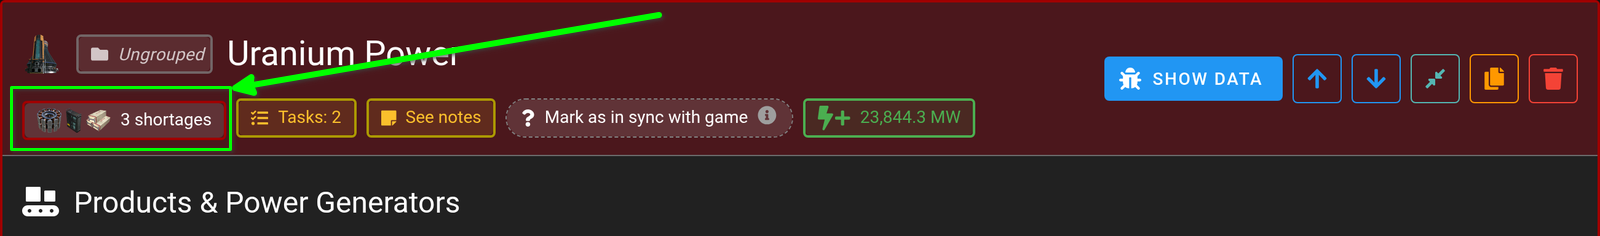
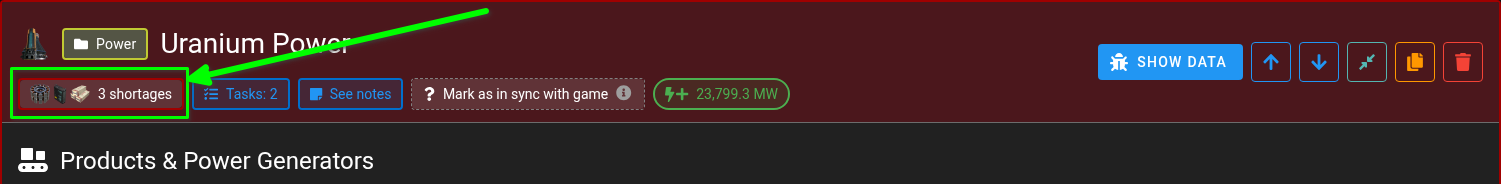
docs(web): rewrite the Beta v0.6 change log
Lead with the raw inputs breaking change, in red, since it is what
changes every existing plan.

Cut the rationale from every entry so each one states the change and
stops. Drop the entries nobody outside the branch ever saw: the health
check, the version gate, the 404 route, the Effective Output rename and
the Somersloop refresh icon.

Split the Factories Summary into its own section, group the status
tiers into a colour-coded list, and add screenshots for the summary,
its filtered view, the End product chip, the export chip jump button
and the active factory bar. Retake status-chips.png for the new chip
colours.

Correct three claims while I am in here: wells cover Crude Oil as well
as Water and Nitrogen, water comes from alternate recipes and
byproducts too, and Nitrogen Gas was always plannable through
conversion.

Changed region(s): [[0.0, 0.0543, 1.0, 0.6793], [0.6742, 0.2174, 1.0, 0.462], [0.0, 0.788, 0.3065, 0.9511]]

diff --git a/web/src/pages/changelog.vue b/web/src/pages/changelog.vue
@@ -23,8 +23,8 @@
           </ul>
         </nav>
         <v-divider />
-        <h1>Beta v0.6 - The "Groundwork" Update <span class="release-date">14/Aug/2026</span></h1>
-        <p>Everything your plan needs now comes from somewhere. Raw resources are no longer an assumption: ore, water, oil and gas are dug up by buildings you place, planned and exported like anything else. The plan they feed got the folders, icons and status chips to keep track of it all.</p>
+        <h1>Beta v0.6 - The "Groundwork" Update <span class="release-date">19/Aug/2026</span></h1>
+        <p>Raw resources are no longer assumed. Ore, water, oil and gas are dug up by buildings you place, and planned and exported like anything else. Factory groups, factory icons and status chips arrive to keep a bigger plan in order.</p>
         <nav v-if="sectionsOf('Beta v0.6').length" class="toc">
           <p class="mb-1"><b>In this update:</b></p>
           <ul class="toc-list">
@@ -34,8 +34,15 @@
           </ul>
         </nav>
 
+        <h2 class="breaking">🆕 <i class="fas fa-exclamation-triangle ml-1" /><span class="ml-2">Raw inputs are no longer assumed</span></h2>
+        <p>The planner used to top up any raw resource you were short of. Every raw resource must now be mined or imported, and an unmet one is a real shortage, with the usual buttons to mine it on the spot or import it.</p>
+        <p><b>Plans built before this will show factories in red.</b> Nothing has been changed or lost. The shortages were always there.</p>
+        <p>There is no setting for it: an optional assumption would mean the same plan meant different things to different people.</p>
+
+        <v-divider class="subsection" />
+
         <h2>🆕 <i class="fas fa-hard-hat ml-1" /><span class="ml-2">Mines</span></h2>
-        <p>Pick a raw resource as a product and the planner offers its extractor as the recipe. Because one ore line routinely mixes a Mk.3 on a pure node with a Mk.2 on a normal one, the <b>miner mark and node purity are set per building group</b>, and both stack with the group's clock exactly as they do in game. Build a dedicated mine and export the ore anywhere in your plan, or mine on site and smelt it in the same factory.</p>
+        <p>Pick a raw resource as a product and the planner offers its extractor as the recipe, along with any alternate recipe that also produces it. Miner mark and node purity are set per building group, and both stack with the group's clock as they do in game. Mine on site like any other product, or build a dedicated mine and export the ore.</p>
         <v-img
           alt="A mine mixing Miner Mk.3s on pure nodes with a Mk.2 on a normal one"
           max-width="1200"
@@ -45,8 +52,8 @@
         <v-divider class="subsection" />
 
         <h2>🆕 <i class="fas fa-water ml-1" /><span class="ml-2">Resource Wells</span></h2>
-        <p>A well is one building group: the pressurizer, and how many satellite extractors stand on impure, normal and pure micro-nodes. The pressurizer's clock scales every satellite at once, so a well of 1 normal and 6 pure satellites reads 780 m³/min at 150 MW, and 1,950 m³/min at 503.7 MW once you shove three power shards in it. The satellites are counted as buildings to place but draw no power, because the pressurizer pays for all of them.</p>
-        <p><b>Nitrogen Gas becomes extractable for the first time</b>, wells being its only source.</p>
+        <p>A well is one building group: the pressurizer, plus its satellite extractors on impure, normal and pure micro-nodes. The pressurizer's clock scales every satellite at once and pays the power for all of them. Wells cover Water, Crude Oil and Nitrogen Gas.</p>
+        <p><b>Raw Nitrogen Gas is in the planner for the first time.</b> It was only ever available through conversion before, which was a long-standing hole.</p>
         <v-img
           alt="A resource well pressurizer with its satellite nodes by purity"
           max-width="1200"
@@ -56,7 +63,7 @@
         <v-divider class="subsection" />
 
         <h2>🆕 <i class="fas fa-tint ml-1" /><span class="ml-2">Water &amp; Oil</span></h2>
-        <p>Water sources have no purity, so the Water Extractor is simply a building that produces a raw resource at a flat 120 m³/min, and overclocks like everything else. Oil Extractors work off node purity in the usual way.</p>
+        <p>Water is now supported however you get it: Water Extractors, resource wells, alternate recipes and byproducts. Oil is supported from both Oil Extractors and resource wells.</p>
         <v-img
           alt="Water Extractors, which have no node purity"
           max-width="1200"
@@ -65,131 +72,163 @@
 
         <v-divider class="subsection" />
 
-        <h2>🆕 <i class="fas fa-exclamation-triangle ml-1" /><span class="ml-2">Raw inputs are no longer assumed</span></h2>
-        <p>Until now the planner quietly topped up any raw resource you were short of, so a plan could never tell you it was missing ore. Every raw resource must now be mined or imported like anything else, and an unmet one is a real shortage, with the usual buttons to mine it on the spot or import it from a factory that does. <b>Plans built before this will show factories in red.</b> Nothing in your plan has been changed or lost; it is only being honest about what was already missing.</p>
-        <p><b>There is no setting for it, and that is deliberate.</b> An optional assumption meant the same plan could mean different things to different people, with nothing on screen to say so. The bug that ended it: a factory mining 100 of the 180 Limestone it needed read as <i>fully satisfied</i>, because the chip that would have mentioned the assumed 80 was suppressed by the one saying "extracted".</p>
-        <p>The one exception is decided by the game rather than by you. Eleven raw resources have no extractor of any kind (Leaves, Wood, Mycelia, the four alien remains, the three power slugs and the FICSMAS Gift), so demanding you mine those would leave every Fabric, Charcoal, Biomass and Protein factory permanently red with nothing the planner could offer. They stay satisfied and wear an amber <b>Manually gathered</b> chip.</p>
-
-        <v-divider class="subsection" />
-
         <h2>🆕 <i class="fas fa-shovel ml-1" /><span class="ml-2">The Raw Resources Wizard</span></h2>
-        <p>It lists every factory short of a raw resource and offers, per row: create a shared mine factory, mine it right there, import it from a factory that already mines it, or leave it alone. It lives in <b>Options</b>, the wrench beside the share button, and isn't only for migrating; run it any time a new factory comes up short.</p>
+        <p>It lists every factory short of a raw resource and offers, per row: build a shared mine, mine it on site, import it from a factory that already mines it, or leave it alone. It lives in <b>Options</b>, the wrench beside the share button. Run it any time a new factory comes up short.</p>
         <v-img
           alt="The Raw Resources Wizard listing factories short of a raw resource"
           max-width="1200"
           src="/assets/changelog/beta6/wizard.png"
         />
         <ul class="ml-6 mt-2">
-          <li><b>One mine per resource for the whole plan</b> where you ask it to build one, sized to everything that asked for it: a plan short of iron in eight places gets one Iron Ore Mine, not eight.</li>
-          <li>New mines are built on <b>Miner Mk.2s at normal purity</b>. Only the building count and the power depend on that guess, never the amount of ore, so adjust each group to the nodes you actually have.</li>
-          <li><b>Water defaults to being extracted on site</b>, since that is how it is nearly always built, and a resource already mined somewhere in your plan defaults to importing from there.</li>
-          <li><b>Resource wells are the one thing it won't build.</b> A well's rate comes from its satellite nodes, so sizing one automatically would multiply the pressurizer instead and land an order of magnitude out while reading as solved. Nitrogen rows offer nothing at all, and say why. Wiring an import from a well you already have is one click in Imports.</li>
-          <li>It shows you every factory it will touch, everything they will produce and every export they gain, and <b>writes nothing until you confirm</b>. There is no undo in the planner, so the whole change is built to one side first: if any part of it can't be applied, nothing is written at all. <b>Download a backup</b> from the confirmation screen for a way back.</li>
-          <li>You choose whether new mines land at the top or the bottom of the plan, and can rename any of them before they are built.</li>
+          <li><b>One mine per resource</b>, sized to everything that asked for it. Eight factories short of iron get one Iron Ore Mine.</li>
+          <li>New mines use <b>Miner Mk.2s at normal purity</b>. That guess only affects the building count and the power, never the ore, so adjust each group to the nodes you have.</li>
+          <li><b>Water defaults to on-site extraction.</b> A resource already mined somewhere in your plan defaults to importing from there.</li>
+          <li><b>Resource wells are not compatible with the wizard</b>, because of the satellites. Rather than make a bad guess it leaves them to you, and says so on any row it cannot help with. Wiring an import from a well you already have is one click in Imports.</li>
+          <li><b>Nothing is written until you confirm.</b> You see every factory, product and export first, and can download a backup from the confirmation screen.</li>
+          <li>You choose whether new mines land at the top or the bottom of the plan, and can rename them before they are built.</li>
         </ul>
 
         <v-divider class="subsection" />
 
         <h2>🆕 <i class="fas fa-folder-tree ml-1" /><span class="ml-2">Factory Groups</span></h2>
-        <p>A plan of thirty factories was a flat list, and the only ways to organise it were the name and the drag order. Factories now belong to a <b>group</b>: a named, coloured folder that collapses like a toggle, reorders, and can be dragged in and out of. Anything in no group falls into <b>Ungrouped</b>, pinned to the top.</p>
+        <p>Factories now belong to a <b>group</b>: a named, coloured folder that can be collapsed, reordered, and have factories dragged between them. Anything ungrouped falls into <b>Ungrouped</b>, pinned to the top.</p>
         <v-img
           alt="Factories organised into coloured groups in the sidebar"
           max-width="1200"
           src="/assets/changelog/beta6/factory-groups.png"
         />
         <ul class="ml-6 mt-2">
-          <li><b>In the sidebar</b>, a group is a header with its colour swatch, an editable name, a factory count, a delete button, and a line showing what the group makes: as many item icons as the sidebar is currently wide enough for, then a <b>+N</b> tile whose tooltip lists the rest. Drag a factory between groups, reorder factories inside one, or drag the groups themselves.</li>
-          <li>The sidebar draws a group as a <b>tree</b>: a line in the group's colour down the edge of the section, with an elbow into each member.</li>
-          <li><b>In the planner</b>, cards sit under a collapsible band per group, Ungrouped first. Bands only appear once there is more than one section, so a plan that has never used groups looks exactly as it did.</li>
-          <li><b>Colour</b> comes from a palette or the picker. Red and amber are deliberately not offered: they are the problem and warning tiers, and a group wearing one would read as a broken factory. A group gives its cards a muted header and a bright left spine, and a status still wins the border, so a factory short of copper stays red while its spine says where it lives.</li>
-          <li><b>Assigning</b> is a drag, or the group chip on the factory's header, which lists the groups and can make a new one on the spot. <b>Multi-group edit</b> does the same to a whole selection, so organising an existing plan doesn't mean opening forty cards in turn.</li>
-          <li><b>Group power</b> (generated, consumed and the balance per group) is off by default and switched on under <b>Options → Sidebar → Factory groups</b>. It comes with a <b>circuit boost</b> chip wherever Alien Power Augmenters are involved: that boost is a share of the whole plan's generation, so without it a group generating 3.3 GW read as 61 GW.</li>
-          <li><b>Deleting a group never deletes a factory</b>: one that still holds factories asks where they should go first.</li>
+          <li><b>In the sidebar</b>, a group header carries its colour, an editable name, a factory count, a delete button, and icons for what the group makes.</li>
+          <li><b>In the planner</b>, cards sit under a collapsible band per group, Ungrouped first.</li>
+          <li><b>Assign</b> by drag, or from the group chip on the factory header, which can make a new group on the spot. <b>Multi-group edit</b> does the same to a whole selection.
+            <v-img
+              alt="Multi-group edit assigning several selected factories to one group"
+              class="mt-2"
+              max-width="1200"
+              src="/assets/changelog/beta6/multi-group-edit.png"
+            />
+          </li>
+          <li><b>Group power</b> (generated, consumed and the balance) is optional, under <b>Options → Sidebar → Factory groups</b>. A <b>circuit boost</b> chip shows where Alien Power Augmenters are involved.</li>
+          <li><b>Deleting a group never deletes a factory.</b> One that still holds factories asks where they should go first.</li>
         </ul>
 
         <v-divider class="subsection" />
 
         <h2>🆕 <i class="fas fa-icons ml-1" /><span class="ml-2">Factory Icons</span></h2>
-        <p>Every factory drew the same generic industry glyph, so a plan of twenty factories showed twenty identical icons and the only thing distinguishing a sidebar row was a truncated name. Factories now carry <b>an icon you choose</b>, and it shows everywhere the factory is referenced: the card header, the sidebar row, the Factories Summary, the graph node, the import rows, and the import/export chips.</p>
+        <p>Factories now carry <b>an icon you choose</b>, shown on the card header, the sidebar row, the Factories Summary, the graph node, the import rows and the import/export chips.</p>
         <v-img
           alt="The factory icon picker"
           max-width="1200"
           src="/assets/changelog/beta6/factory-icons.png"
         />
         <ul class="ml-6 mt-2">
-          <li><b>352 icons to pick from.</b> Real game art for every machine, extractor and generator, every belt, lift, splitter, pipe and pump, all the power infrastructure, the stations and storage, the vehicles, the equipment, and every raw resource, fluid and component the planner knows about, plus emoji: coloured squares, circles, diamonds and triangles, the digits 0–10, and a row of symbols.</li>
-          <li><b>Two ways in:</b> click the icon on the factory itself, or the same icon on its row in the sidebar. Either opens the picker; <i>Use default</i> puts the generic glyph back.</li>
-          <li><b>The picker opens on everything</b>, laid out under category headings so you can scroll it like a sheet rather than hunting through tabs. The category buttons stay on screen, so they double as a map of what is in there.</li>
-          <li><b>Search covers the whole set</b> whichever category is selected, and matches names with their punctuation stripped: the game writes "Mk.5" and nobody types the dot, so "mk5" finds it.</li>
-          <li>A factory stores only an icon ID, so nothing about how it is drawn is baked into your saved plan. Plans saved before this show the default glyph until an icon is picked.</li>
-          <li><b>The Demo plan wears them</b>, with its copper chain folded into a copper-coloured group.</li>
+          <li><b>352 icons</b>, using in-game art for every building, product, vehicle and resource, plus emoji: coloured squares, circles, diamonds, triangles, digits and symbols.</li>
+          <li>Click the icon on the factory header, or on its sidebar row, to change it.</li>
         </ul>
 
         <v-divider class="subsection" />
 
         <h2>🆕 <i class="fas fa-heart-rate ml-1" /><span class="ml-2">Factory status indicators</span></h2>
-        <p>A factory in the sidebar used to tell you exactly one thing: it was red, or it wasn't. Three unrelated failures collapsed into one red blob, and anything short of outright broken had nowhere to appear. Factories now carry a <b>status list</b>: named conditions rendered as chips under the factory name, so a 30-factory plan can be triaged without opening a single card.</p>
+        <p>A factory in the sidebar was either red or it wasn't, and it never said what was wrong. Factories now carry <b>status chips</b> that name the problem, so you can go straight to it.</p>
         <v-img
           alt="A factory carrying status chips under its name"
           max-width="1200"
           src="/assets/changelog/beta6/status-chips.png"
         />
-        <ul class="ml-6 mt-2">
-          <li><b>Three tiers.</b> Red for a problem: the factory can't do what the plan says it does. Amber for a warning: the plan is coherent, but something is probably not what you meant, or your world is behind your plan. The higher of those paints the border, and chips aren't collapsed, so a factory both short of copper <i>and</i> out of sync shows both. The third tier is a note: worth counting, often deliberate, and it leaves the factory green.</li>
-          <li><b>Nine statuses to start with.</b> Red: shortage, unmet export request, building groups that don't add up. Amber: unhandled byproduct, out of sync with the game, redundant import, duplicate import. Note: no demand, potential blockage.</li>
-          <li><b>No demand</b> counts the products nothing asks for: no recipe in the factory needs them and no other factory imports them. A factory built to feed the sink is doing its job, which is why this one never colours the card. The chip appears beside the product, beside the item's surplus in Satisfaction, and as a count on the Factories Summary.</li>
-          <li><b>A byproduct nothing consumes will back up and stop the buildings making it.</b> You can decline to build a product nobody wants; you cannot decline the Heavy Oil Residue or the Plutonium Waste that comes off the line. How loudly the planner says so depends on whether the AWESOME Sink would take it: sinkable byproducts get a <b>Potential blockage</b> note and the factory stays green, since there is a way out you just haven't drawn yet. Fluids and radioactive items get <b>Unhandled byproduct</b>, which is amber and does colour the factory, because the sink takes neither. The product or generator responsible takes an amber background so you can see which row it is, and exporting the byproduct or blending it into a recipe clears either one.</li>
-          <li><b>End products say so, in blue.</b> Items the game itself never consumes are the end of their chain: the AI Expansion Server, the Ballistic Warp Drive, nobelisks, rebar, the Portable Miner. Having no consumer is what those are for, so they read <b>End product</b> rather than "no demand". Nuclear fuel rods and the Alien Power Matrix are correctly left out: nothing crafts with them, but generators burn them.</li>
-          <li><b>The chips say which items</b>: three shortages are three item icons and "3 shortages", not a generic warning glyph. The full list is in the tooltip. Clicking a chip scrolls to the section it points at.</li>
-          <li>The same treatment now applies everywhere factory state was already painted: the sidebar, the card border and header, the section headers, and the Factories Summary, which never painted the amber state at all.</li>
-          <li><b>The Factories Summary counts them</b>, in its header and in its sidebar row: how many factories are short of parts, have building groups that don't add up, are out of sync, and so on. Only the states that apply are shown, and the header keeps them when the summary is collapsed.</li>
-          <li><b>Those counts filter the table.</b> Click one and the summary lists only the factories behind it, ready to jump into; click it again to clear.</li>
-          <li><b>Fixed:</b> a factory whose <i>power generator</i> building groups didn't add up never turned red. The check ran, but the rollup only ever looked at products.</li>
+        <p class="mt-2"><b>The statuses below sit in three tiers.</b> Red is a serious problem. Amber is something to address at some point. Yellow shows on the factory without flagging it. The highest tier present paints the factory, and chips are never collapsed, so a factory short of copper <i>and</i> out of sync shows both.</p>
+        <ul class="status-tiers ml-6">
+          <li class="tier-problem"><b>Marks the factory red</b>
+            <ul>
+              <li><b>Shortage</b>: the factory needs more of a part than it can supply.</li>
+              <li><b>Export request unmet</b>: another factory asks for more than this one supplies.</li>
+              <li><b>Building groups do not add up</b>: the groups on an item do not cover the buildings it needs.</li>
+            </ul>
+          </li>
+          <li class="tier-warning"><b>Marks the factory amber</b>
+            <ul>
+              <li><b>Unhandled byproduct</b>: a fluid or radioactive byproduct nothing consumes and the sink will not take.</li>
+              <li><b>Out of sync</b>: the factory has changed since you marked it built in game.</li>
+              <li><b>Redundant import</b>: the part is already covered here, or by another import row.</li>
+              <li><b>Duplicate import</b>: the same part imported twice from the same factory.</li>
+            </ul>
+          </li>
+          <li class="tier-note"><b>Shows on the factory, but does not flag it</b>
+            <ul>
+              <li><b>No demand</b>: nothing asks for this product.</li>
+              <li><b>Potential blockage</b>: a byproduct nothing consumes, but the sink would take it.</li>
+            </ul>
+          </li>
         </ul>
+        <v-img
+          alt="A product row for a Ballistic Warp Drive, carrying a blue End product chip"
+          class="mt-2"
+          max-width="900"
+          src="/assets/changelog/beta6/end-product-chip.png"
+        />
+        <p class="mt-2"><b>End product</b>, in blue, marks an item the game itself never consumes, so having no demand is what it is for.</p>
+        <ul class="ml-6 mt-2">
+          <li><b>Fixed:</b> a factory whose <i>power generator</i> building groups didn't add up never turned red. The check ran, but the rollup only looked at products.</li>
+        </ul>
+
+        <v-divider class="subsection" />
+
+        <h2>👍 <i class="fas fa-list ml-1" /><span class="ml-2">Factories Summary</span></h2>
+        <p>The summary now aggregates every issue in the plan, in its header and in its sidebar row, so you can see everything wrong at a glance and go from there.</p>
+        <v-img
+          alt="The Factories Summary, with status counts in its header"
+          max-width="1200"
+          src="/assets/changelog/beta6/factories-summary.png"
+        />
+        <p class="mt-2"><b>Click a count to list only the factories behind it</b>, and click it again to clear.</p>
+        <v-img
+          alt="The Factories Summary filtered to the three factories with shortages"
+          max-width="1200"
+          src="/assets/changelog/beta6/factories-summary-filtered.png"
+        />
 
         <v-divider class="subsection" />
 
         <h2>👍 <i class="fas fa-chart-line ml-1" /><span class="ml-2">Statistics enhancements</span></h2>
         <h3>Item Production</h3>
-        <p><b>Product Surplus &amp; Deficit and Produced Items are now one section.</b> They listed the same items twice: one showing the balance, the other the supply. Item Production lists every item, with a search box and filters for surplus, deficit and balanced. The filter counts follow the search, so they say how many match both. The "Show all Products" toggle has gone with the section it controlled.</p>
+        <p><b>Product Surplus &amp; Deficit and Produced Items are now one section.</b> Item Production lists every item, with a search box and filters for surplus, deficit and balanced. The filter counts follow the search. The "Show all Products" toggle has gone with the section it controlled.</p>
         <v-img
           alt="The Item Production table, with each item broken down by factory"
           max-width="1200"
           src="/assets/changelog/beta6/statistics-items.png"
         />
-        <h3 class="mt-4">Where the numbers come from</h3>
-        <p><b>Item Production, Raw Resources and Building Summary are tables</b>, and each says which factories are behind the figure. Item Production lists every factory producing an item with what it makes, in green, alongside any factory short of it, in red. The chips click through to the factory.</p>
+        <h3 class="mt-4">Buildings</h3>
+        <p><b>Building Summary now says which factories hold each building.</b></p>
         <v-img
           alt="The Building Summary table, listing every factory that holds each building"
           max-width="1200"
           src="/assets/changelog/beta6/statistics-buildings.png"
         />
-        <ul class="ml-6 mt-2">
-          <li><b>Raw Resources</b> counts what the plan digs up. It used to read the raw supply the planner assumed on your behalf, so it sat empty once that assumption was removed.</li>
-          <li><b>Power Consumption and Generation</b> gains a By factory breakdown, heaviest net drain first, collapsed by default.</li>
-          <li><b>Building Summary</b> no longer counts a building requirement that has dropped to zero.</li>
-        </ul>
+        <h3 class="mt-4">Power</h3>
+        <p><b>Power Consumption and Generation gains a By factory breakdown</b>, heaviest net drain first, collapsed by default.</p>
+        <v-img
+          alt="Power consumption and generation broken down by factory"
+          max-width="1200"
+          src="/assets/changelog/beta6/statistics-power-by-factory.png"
+        />
 
         <v-divider class="subsection" />
 
         <h2>👍 <i class="fas fa-tasks ml-1" /><span class="ml-2">Tasks</span></h2>
-        <p><b>Tasks drag into any order</b> now, by the grip handle on the left, the same handle the sidebar's factory list uses. A task's position was fixed the moment it was added, so the only way to reprioritise was to delete it and retype it at the bottom. Completed tasks drag too.</p>
+        <p><b>Tasks drag into any order</b>, by the grip handle on the left. Completed tasks drag too. The card has had a tidy-up while it was open.</p>
         <v-img
           alt="The factory tasks card with drag handles and checkboxes"
           max-width="1200"
           src="/assets/changelog/beta6/tasks.png"
         />
-        <p class="mt-2"><b>Done is a checkbox</b> rather than a pair of buttons, and has moved to the left of the task next to the handle. The old control was a blue button that turned grey, which read as an action to take rather than a state to see. Delete stays on the right and is outlined rather than a solid red block, since it was the loudest thing in the card while being the action you least often want.</p>
 
         <v-divider class="subsection" />
 
         <h2>👍 <i class="fas fa-calculator ml-1" /><span class="ml-2">Export Calculator: belts, pipes and Fluid Trucks</span></h2>
         <ul class="ml-6">
-          <li><b>Belts are back</b>, now per destination: how many conveyors of a chosen mark it takes to carry the export, across all six marks (60/120/270/480/780/1,200 per min), with the smallest single belt that can carry it picked by default.</li>
-          <li><b>Belt groups</b> split an export across several runs, each with its own mark. Enter either an items/min amount or a whole number of belts and the other follows, so you can plan by exact throughput or by "I'll just run four belts". Over-provisioning is fine; only undercapacity raises a warning, with an amber nudge when a whole group could be deleted and the rest would still cover it. Groups persist with the plan.</li>
-          <li><b>Pipes</b> do the same for fluids, Mk.1 (300 m³/min) and Mk.2 (600 m³/min), with their own groups saved separately from the belt ones.</li>
-          <li><b>Fluid Trucks</b> (3,200 m³, added in patch 1.2) are supported, so the Truck column calculates fluid exports instead of telling you to package them. Drones and Tractors genuinely can't carry raw fluids, so those columns say so.</li>
-          <li>The tray reads as an actual recessed tray now, grows with its content instead of clipping at a fixed height, and its mixed thick/thin column borders were unified.</li>
+          <li><b>Belts are back</b>, per destination: how many conveyors of a chosen mark carry the export, across all six marks (60/120/270/480/780/1,200 per min), with the smallest belt that fits picked by default.</li>
+          <li><b>Belt groups</b> split an export across several runs, each with its own mark. Enter an items/min amount or a whole number of belts and the other follows. Only undercapacity warns, with an amber nudge when a whole group could go and the rest would still cover it. Groups persist with the plan.</li>
+          <li><b>Pipes</b> do the same for fluids, Mk.1 (300 m³/min) and Mk.2 (600 m³/min), with their own groups.</li>
+          <li><b>Fluid Trucks</b> (3,200 m³, added in patch 1.2) are supported, so the Truck column calculates fluid exports. Drones and Tractors can't carry raw fluids, and say so.</li>
         </ul>
         <v-img
           alt="The export calculator on a fluid export: Fluid Freight Cars and Fluid Trucks, with 600 m³/min split across two Mk.1 pipe groups"
@@ -202,43 +241,51 @@
 
         <h2>👍 <i class="fas fa-compass ml-1" /><span class="ml-2">Navigation improvements</span></h2>
         <ul class="ml-6">
-          <li><b>The sidebar shows which factory you're looking at</b>, with an orange bar on that entry that follows you as you scroll or jump. No more losing your place in a 30-factory plan. The Statistics and Factories Summary links get the same treatment.</li>
-          <li><b>Jump to a requesting factory</b> from any export chip in the satisfaction table, via a small eye button on its edge. Clicking the chip itself still selects that destination in the Export Calculator.</li>
-          <li>An <b>Exported</b> chip now sits beside Product and Imported on any item another factory has asked for, so what leaves a factory reads off the item's own row.</li>
-          <li><b>Every game image has a tooltip.</b> Hovering an item or building icon that wasn't a wiki link told you nothing, so a row of eight icons was eight guesses.</li>
-          <li>Factory names and tasks now show a text caret and underline on hover, because nothing said they were editable: the factory name went as far as showing a pointing hand, the cursor for a button, on a field you type into.</li>
+          <li><b>The sidebar shows which factory you're looking at</b>, with an orange bar that follows you as you scroll or jump. The Statistics and Factories Summary links get the same treatment.
+            <v-img
+              alt="The sidebar factory list, with an orange bar marking the factory in view"
+              class="mt-2"
+              max-width="420"
+              src="/assets/changelog/beta6/sidebar-active-factory.png"
+            />
+          </li>
+          <li><b>Jump to a requesting factory</b> from any export chip in the satisfaction table, via the small eye button on its edge. Clicking the chip itself still selects that destination in the Export Calculator.
+            <v-img
+              alt="An export chip with the eye button that jumps to the requesting factory"
+              class="mt-2"
+              max-width="420"
+              src="/assets/changelog/beta6/export-chip-jump.png"
+            />
+          </li>
+          <li>An <b>Exported</b> chip sits beside Product and Imported on any item another factory has asked for.</li>
+          <li><b>Every game image has a tooltip.</b></li>
         </ul>
 
         <v-divider class="subsection" />
 
-        <h2>🔧 <i class="fas fa-ghost ml-1" /><span class="ml-2">Ghost exports, and plans that repair themselves</span></h2>
-        <p>A factory could sit there claiming to export a part to another factory that had no matching import, or worse, quietly export the wrong amount. There wasn't one cause, there were five, and each of them is fixed.</p>
+        <h2>🔧 <i class="fas fa-bullseye ml-1" /><span class="ml-2">Plan accuracy fixes</span></h2>
+        <p>A factory could claim to export a part to a factory with no matching import, or quietly export the wrong amount.</p>
         <ul class="ml-6">
-          <li><b>Two factories could end up with the same ID.</b> New IDs were drawn at random from 0–9,999 with nothing checking whether the number was in use, so a 60-factory plan had roughly a one-in-six chance of a collision, which merged two factories into one as far as the dependency system was concerned: the wrong factory named on the export chip, the supplier under-producing, and deleting either taking the other's imports with it. IDs are now issued against the plan, and a plan loaded with a collision has the clash broken and its exports rebuilt.</li>
-          <li><b>Importing the same part twice from the same factory understated the export</b>: the second import overwrote the first's amount rather than adding to it. Amounts are now totalled and duplicates already saved are merged on load.</li>
-          <li>An export could be left behind with nothing in it, a corrupt import pointing at its own factory could take the whole plan's calculation down with it, and a plan that was already wrong stayed wrong through every reload.</li>
-          <li><b>Loading a plan now checks the whole import/export chain</b>, repairs what it finds, and <b>tells you what it changed</b>: every automatic correction, grouped by factory, in one dialog. The browser alert that used to fire for this is gone; it appeared before the planner had drawn anything and sent you to the developer console.</li>
-          <li>Deleting an import, or a factory that supplies another, no longer stops half way and leaves the supplier producing for an import that doesn't exist.</li>
-          <li>Deleting one unfinished import row no longer deletes the other blank ones with it, and copying a factory no longer briefly claims to export everything the original does.</li>
+          <li><b>Two factories could have ended up with the same ID</b>, at roughly a one-in-six chance in a 60-factory plan, which merged them as far as imports and exports were concerned. IDs are now entirely unique.</li>
+          <li><b>Duplicate imports were counted twice.</b> They are no longer possible, and any already in your plan are repaired when it loads.</li>
+          <li><b>Extra validation on the import/export chain.</b> Exports left behind get cleaned up, and imports pointing at factories that no longer exist are removed.</li>
+          <li><b>Loading a plan now runs those checks</b>, repairs what it finds, and reports it. An example:
+            <v-img
+              alt="The plan repair dialog, listing every automatic correction by factory"
+              class="mt-2"
+              max-width="1200"
+              src="/assets/changelog/beta6/plan-repair.png"
+            />
+          </li>
         </ul>
-
-        <v-divider class="subsection" />
-
-        <h2>🔧 <i class="fas fa-ruler-combined ml-1" /><span class="ml-2">Numbers that were a hair off</span></h2>
-        <p>Fuel Generators burning Rocket Fuel asked for 2400.002/min instead of 2400, forcing you to hand-override the producing factory to make the two line up. The game data was at fault (the parser divided a generator's power by a fuel rate it had already rounded), and it's fixed at source, along with Compacted Coal, Alternate: Super-State Computer and both Uranium Fuel Rod recipes.</p>
-        <p><b>Plans already carrying those numbers repair themselves when they load</b>, since the quantities you asked for are inputs to the calculation rather than outputs and carried the drift forward. The check scales with the value rather than using a flat allowance, so a quantity you genuinely chose is left exactly as you set it, and anything on a building group with a fractional clock is skipped entirely. Anything repaired is listed in a dialog: which factory, which item, and the figure before and after.</p>
 
         <v-divider class="subsection" />
 
         <h2>🔧 Fixes &amp; minor adjustments</h2>
         <ul class="ml-6">
-          <li>A building group no longer appears to accept more Somersloops than the building has slots for. The calculation was always correct (the engine clamps before it does anything with the value), but the number on screen disagreed with the number being used. Entries are clamped as you type, and the up arrow greys out once the slots are full.</li>
-          <li>Editing a group's Somersloops no longer spins the refresh icon on the building count as well, and group chips line up again when one carries a wide caption.</li>
-          <li>Refreshing or deep-linking the Parts browser no longer 404s: every route was a hand-maintained list and <code>/parts</code> was never added to it. It's a catch-all now, so adding a page needs no config.</li>
-          <li>An unknown URL lands on a proper "page not found" with links back to the planner and the parts browser, rather than the bare CDN 404.</li>
-          <li>The hidden sidebar's hover tray no longer sticks open when the cursor leaves the window: flinging it onto another monitor used to trip the peek zone on the way out.</li>
-          <li>The API gained a health check that actually fails: it pings the database rather than only proving the process is alive, so an outage raises an alert instead of showing green.</li>
-          <li>A tab left open across a release can no longer save over your account. v0.6 saves your whole plan where v0.5 saved only its factories, so an old tab autosaving would have quietly wiped the rest of it. The API now refuses saves from a version too old to send them, and the page tells you to reload: your work stays exactly where it is, and reloading does not lose it.</li>
+          <li><b>Various rounding errors have been fixed</b>, in the game data and in plans already carrying the drifted numbers, which repair themselves on load. Please report any more on Discord.</li>
+          <li>A building group no longer appears to accept more Somersloops than the building has slots for. Entries clamp as you type and the up arrow greys out once the slots are full. The calculation was always correct; only the number on screen disagreed.</li>
+          <li>The hidden sidebar's hover tray no longer sticks open when the cursor leaves the window.</li>
         </ul>
 
         <v-divider class="subsection" />
@@ -246,9 +293,8 @@
         <h2>👍 <i class="fas fa-file ml-1" /><span class="ml-2">Smaller things</span></h2>
         <ul class="ml-6">
           <li>A new <b>Mining</b> template plan showing all of the above end to end, and the Demo plan gains a Copper Mine feeding its Copper Ingots.</li>
-          <li>Every raw resource in the Imports section gets a one-click button to mine it in that factory, at exactly the amount you're short of.</li>
-          <li>A mine's building groups report <b>Effective Output</b> rather than effective buildings, and when short they list how many of each miner mark would cover the gap, at every node purity.</li>
-          <li>The Converter's ore recipes now name the conversion, "Iron Ore (Convert: Limestone)", so they don't read as though the ore simply came from limestone.</li>
+          <li>Every raw resource in the Imports section gets a one-click button to mine it in that factory, at the amount you're short of.</li>
+          <li>The Converter's ore recipes name the conversion, "Iron Ore (Convert: Limestone)", so they don't read as though the ore came from limestone.</li>
         </ul>
 
         <v-divider />
@@ -631,6 +677,25 @@ h1,h2,h3,h4,h5,h6 {
   // Clears the app bar when a contents link lands on a heading.
   scroll-margin-top: 90px;
 }
+
+// The breaking change leads the release, so its heading is the one that reads as a warning.
+.breaking {
+  color: var(--sf-error);
+}
+
+// The status tiers, coloured as the chips themselves are: red and amber paint the factory,
+// an amber note leaves it green.
+.status-tiers {
+  li { margin-bottom: 0.1rem; }
+
+  // The nested statuses keep their tier's colour; only the tier headers are bold.
+  > li > ul { margin-bottom: 0.4rem; }
+}
+
+.tier-problem { color: var(--sf-problem); }
+.tier-warning { color: var(--sf-status-warning); }
+.tier-note { color: var(--sf-yellow); }
+.tier-info { color: var(--sf-blue); }
 
 .release-date {
   color: #bdbdbd;
